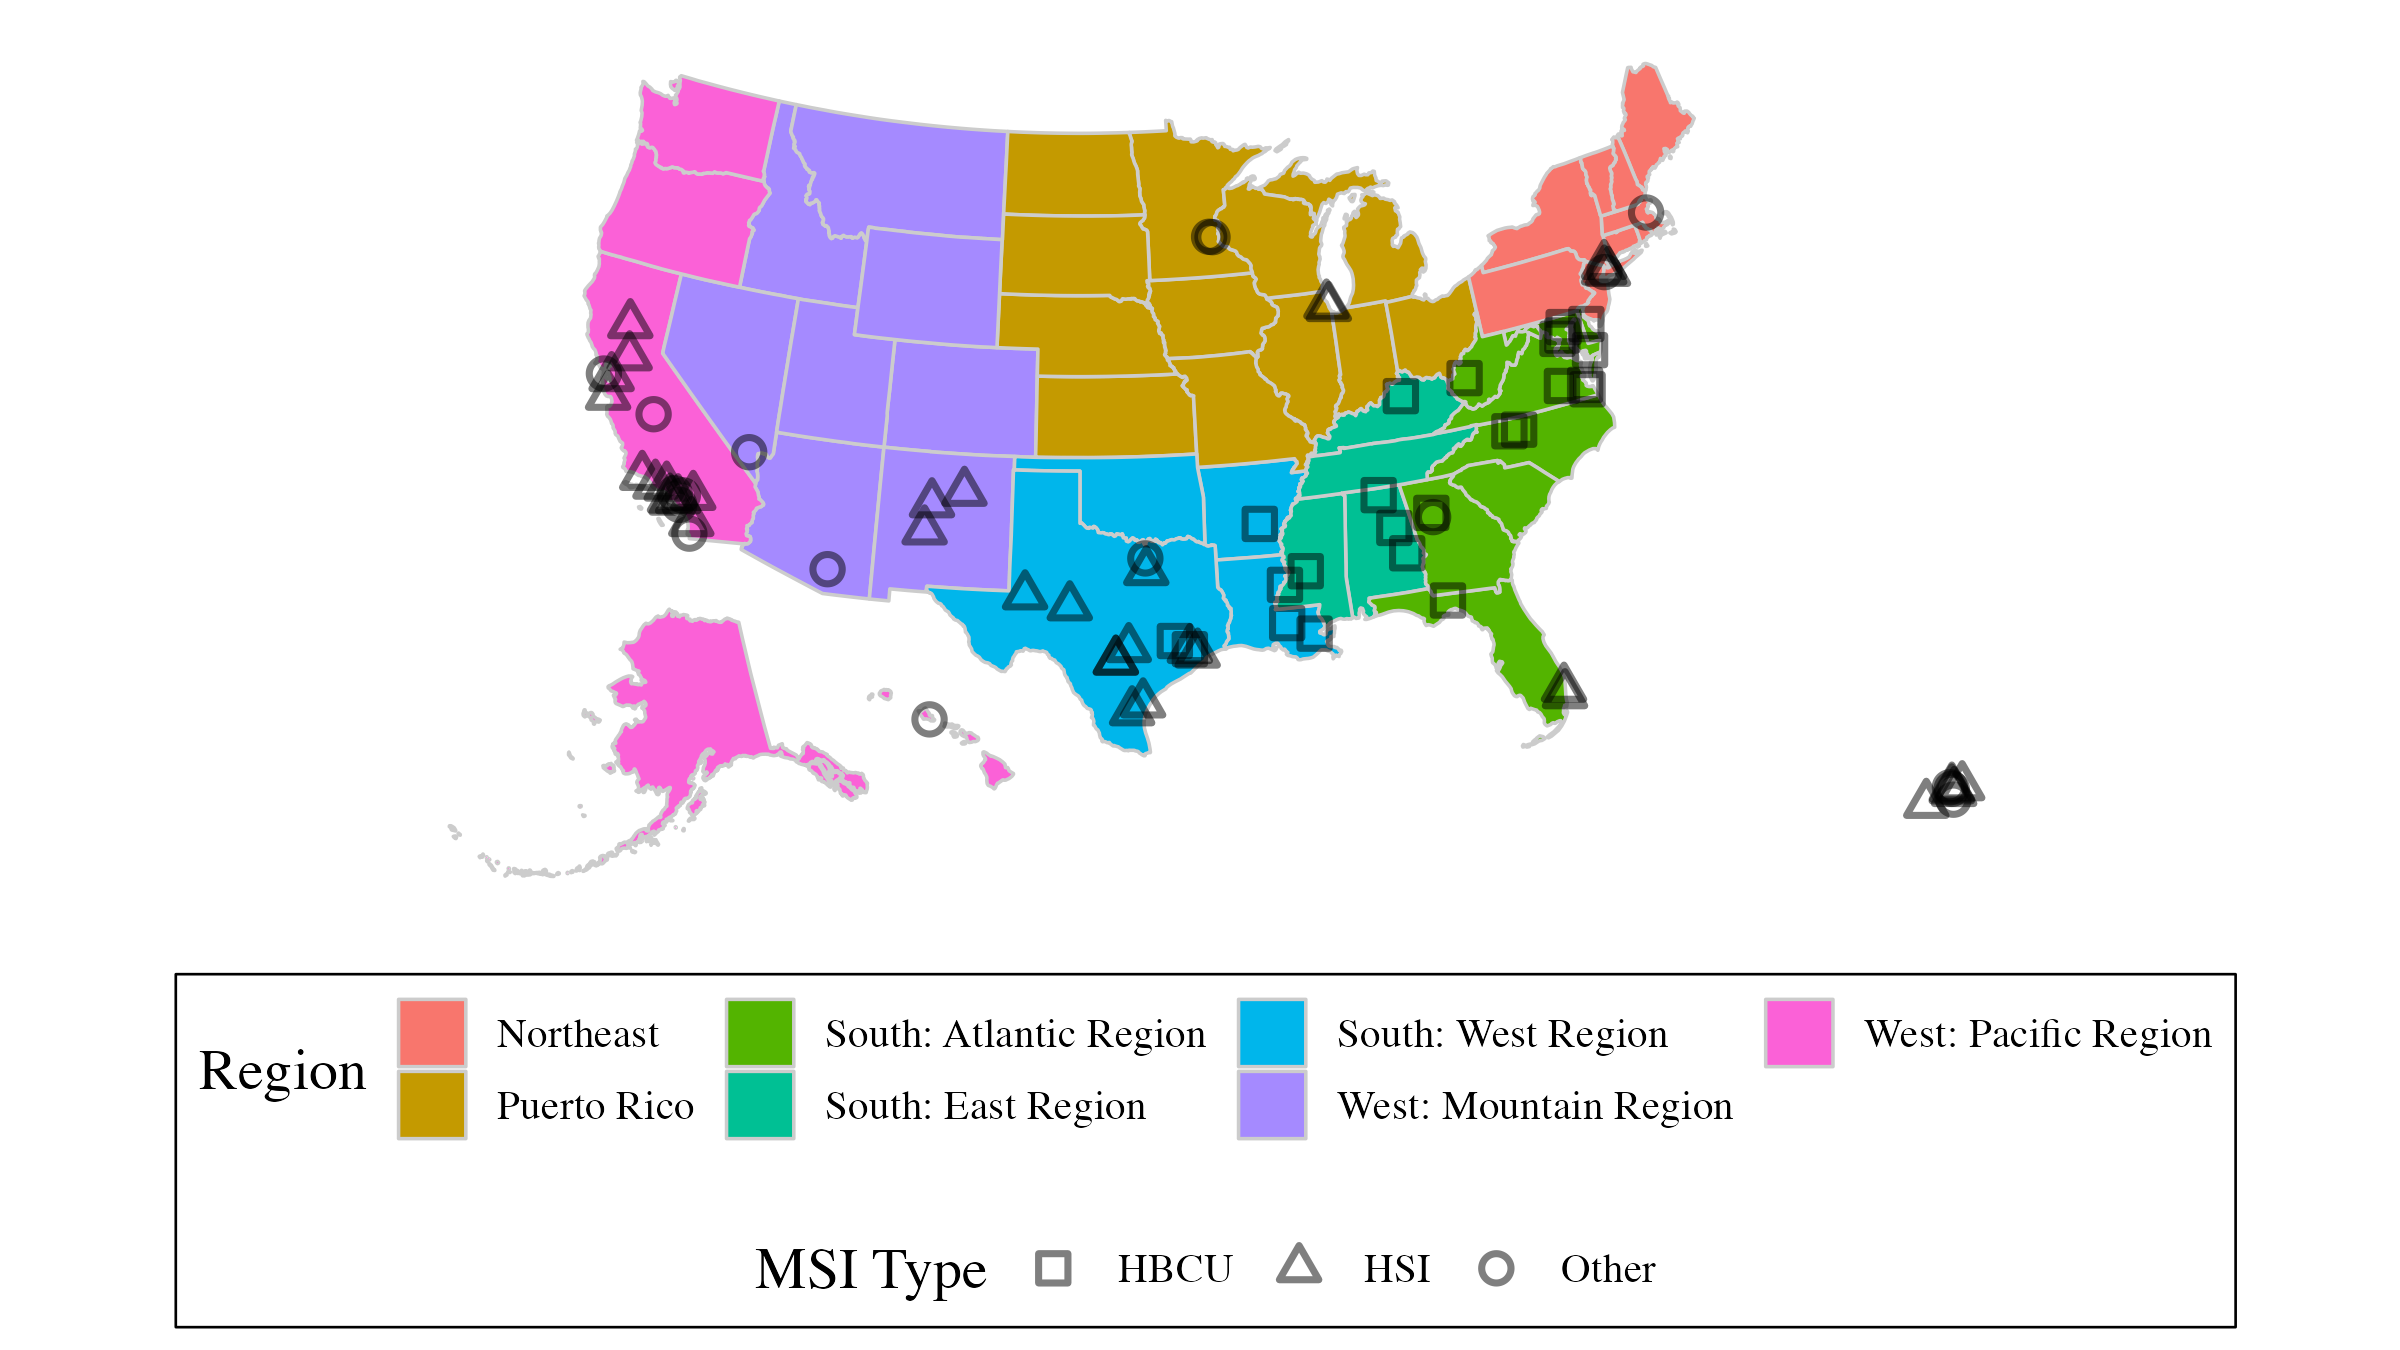
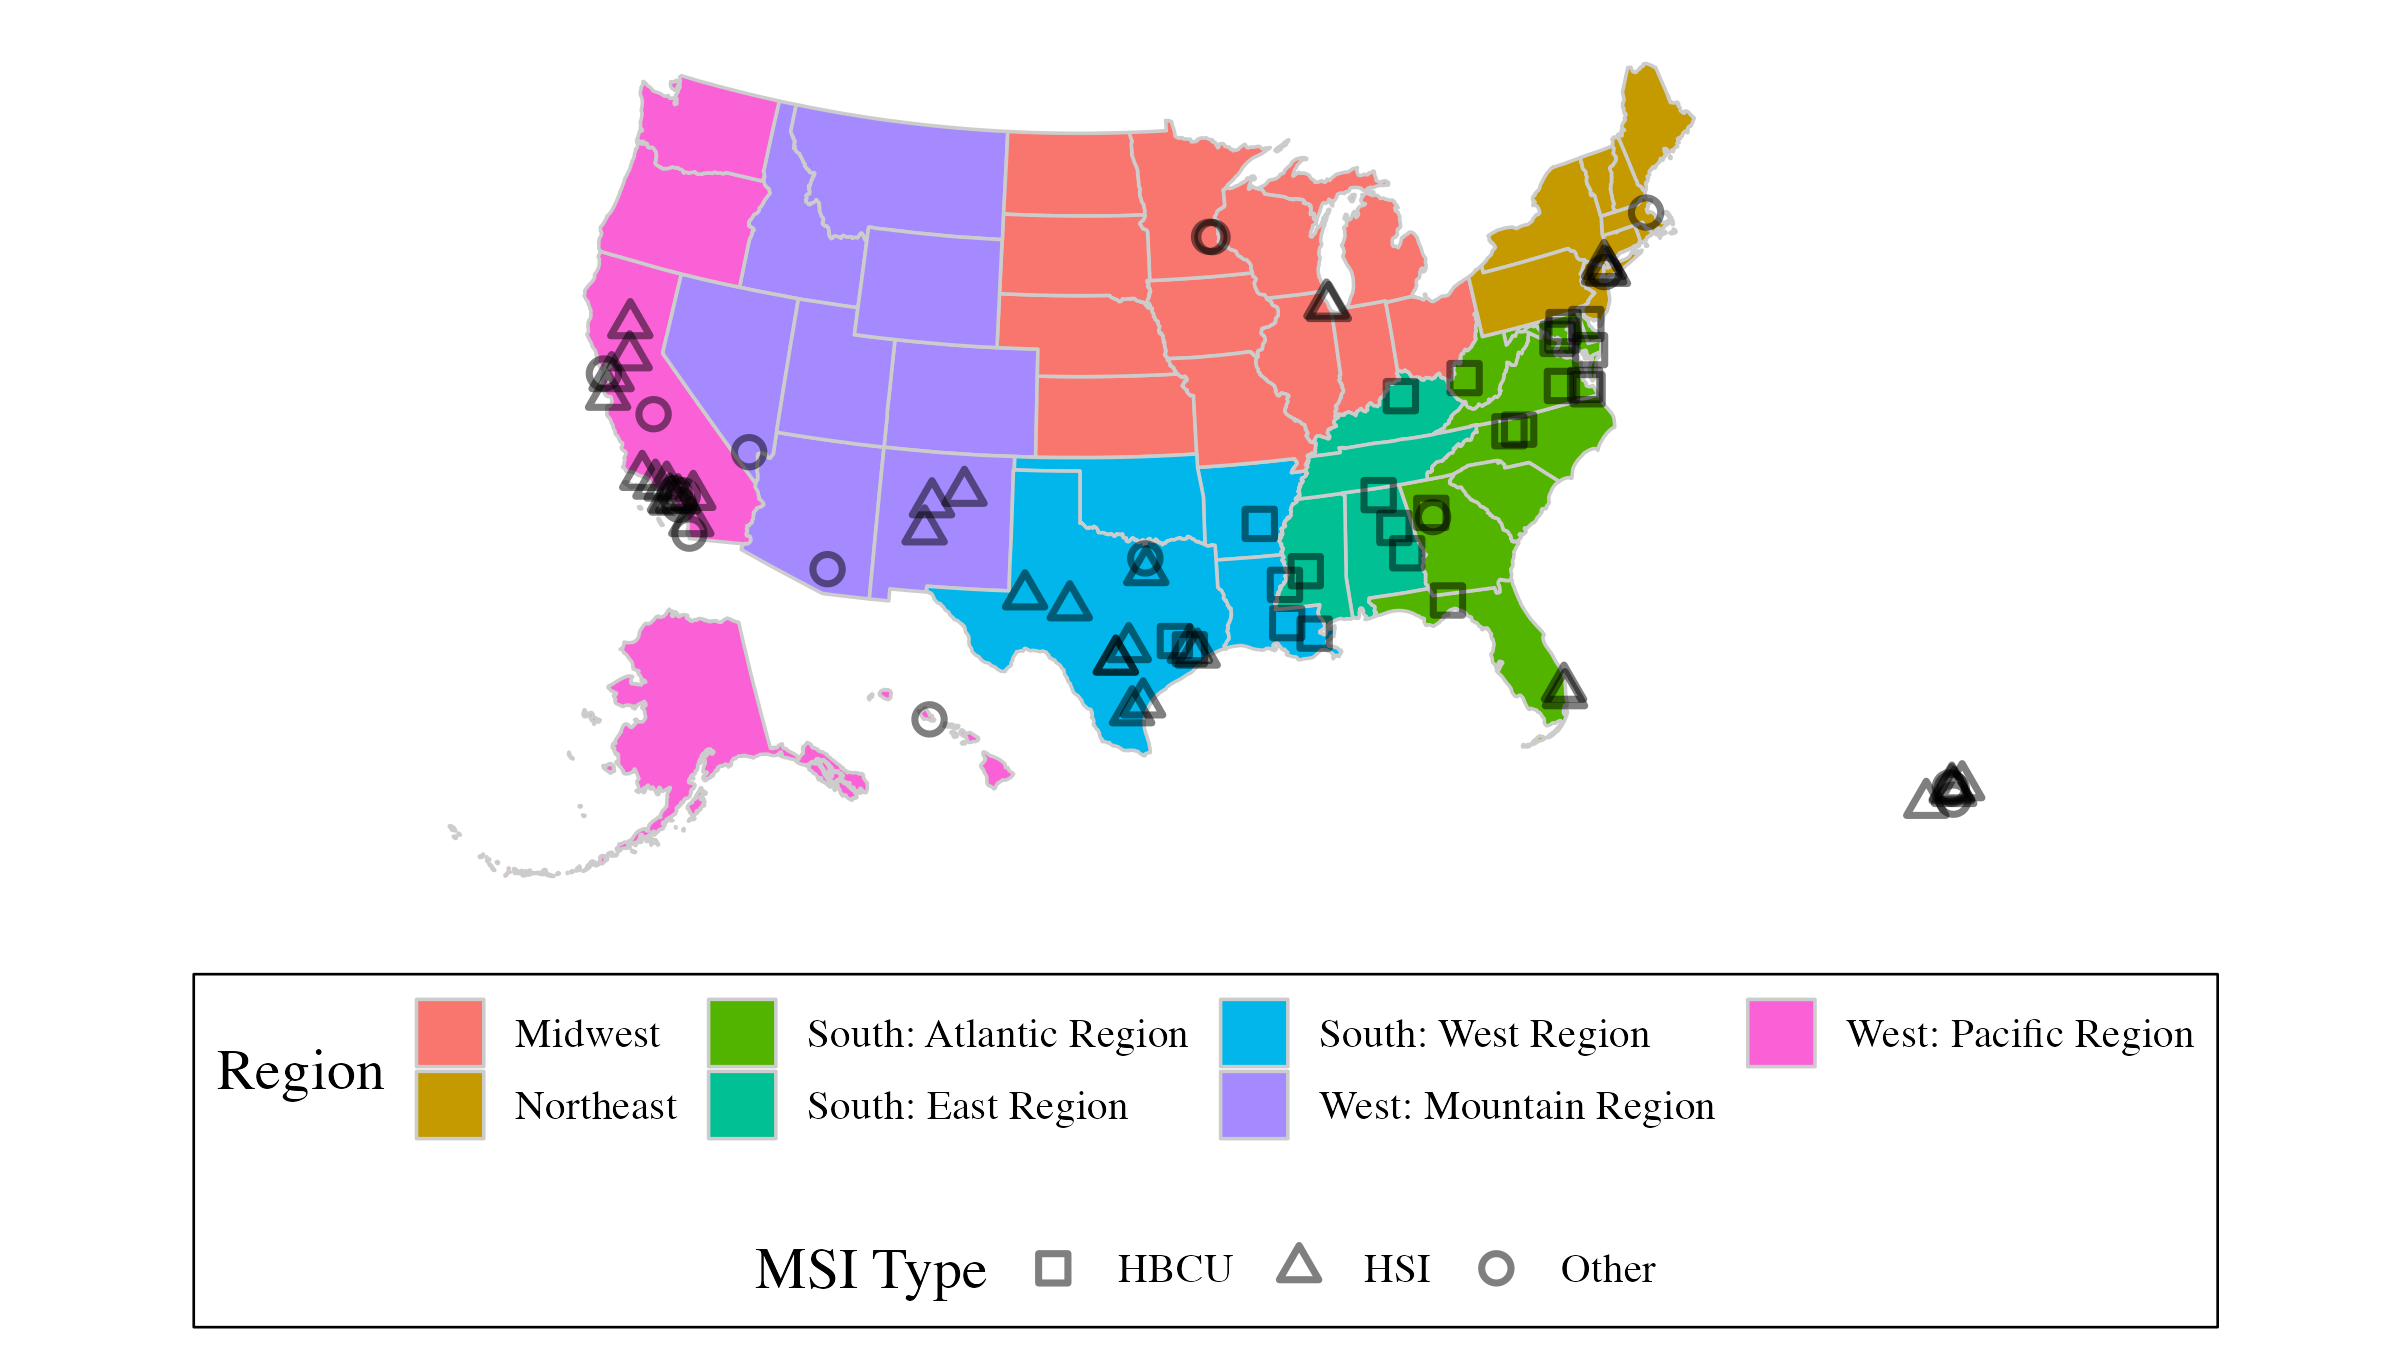
fixed Midwest region on map

Changed region(s): [[0.4062, 0.0311, 0.7188, 0.3422], [0.0625, 0.7467, 0.7188, 0.84], [0.7188, 0.7467, 0.9375, 0.8089]]

diff --git a/README.md b/README.md
@@ -1,3 +1,5 @@
 # msi-computing
 
 Code for analyzing course titles in computing programs at U.S. Minority-Serving Institutions (MSIs).
+
+![](output/msi-map.png)
